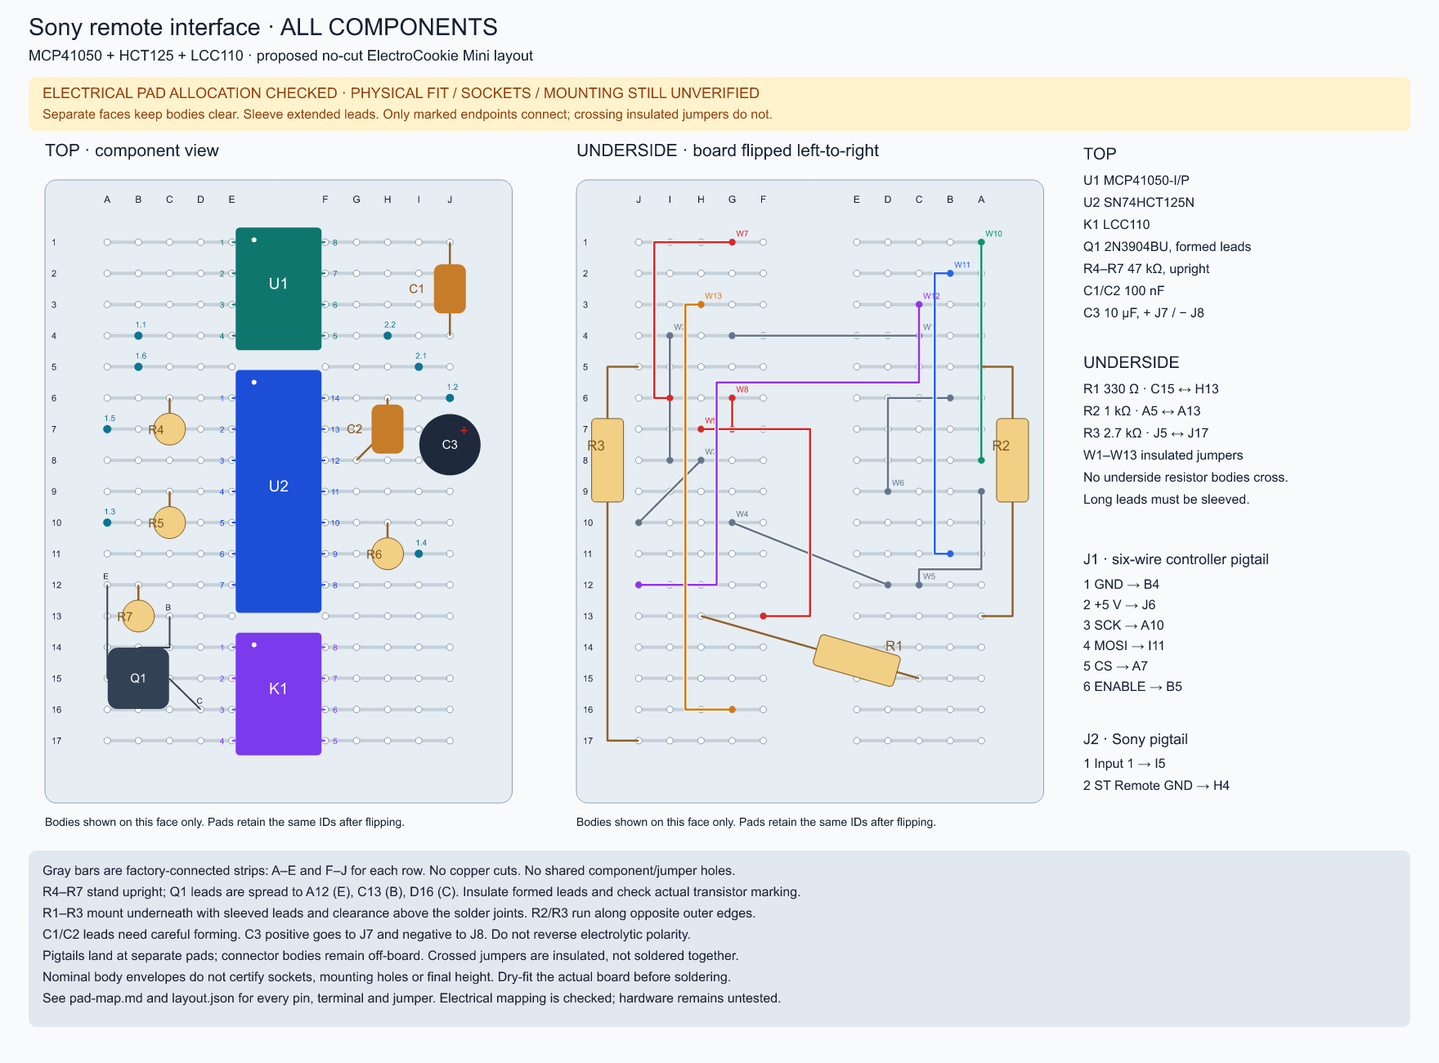
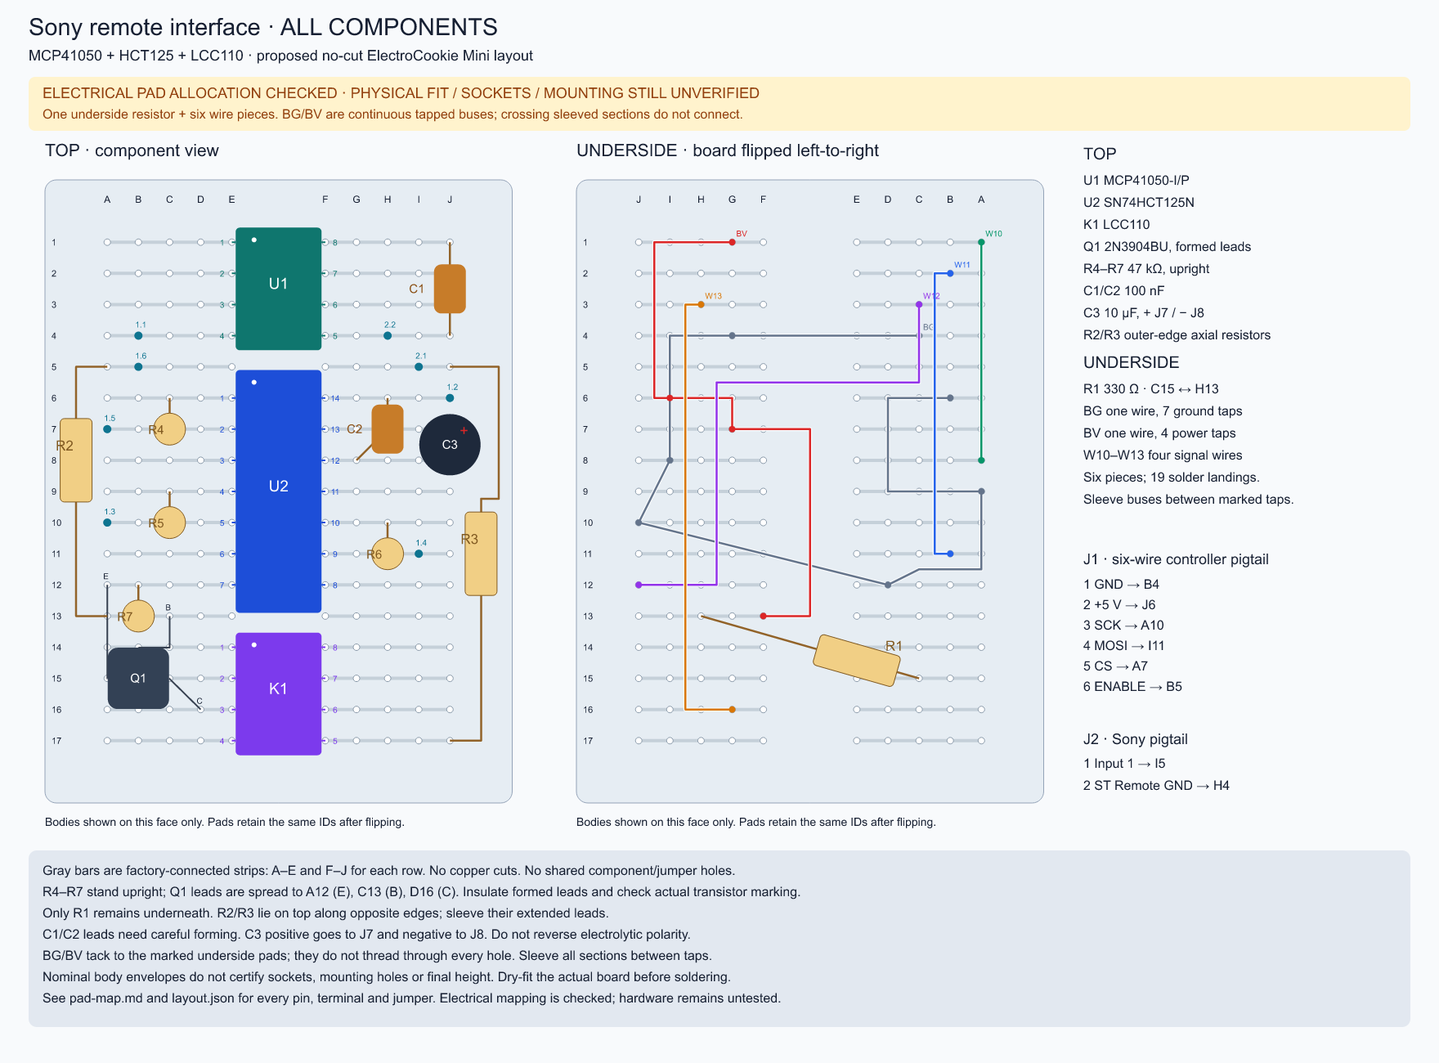
Simplify placement to one underside resistor and two tapped power buses

diff --git a/scripts/full-placement.py b/scripts/full-placement.py
@@ -1,9 +1,7 @@
 #!/usr/bin/env python3
 """Check and draw the complete proposed MCP41050 interface pad allocation."""
 import argparse
-import csv
 import html
-import io
 import json
 import math
 from pathlib import Path
@@ -74,8 +72,10 @@ def check(d):
     assert len({w['ref'] for w in d['jumpers']})==len(d['jumpers'])
     for w in d['jumpers']:
         for pad in w['pads']:occupy(pad,w['ref'])
-        assert all(math.dist(pad_xy(p),point)<1e-6 for p,point in zip(w['pads'],[w['route'][0],w['route'][-1]])),w['ref']
-        join(*w['pads'])
+        assert len(w['pads'])>=2, w['ref']
+        assert all(any(math.dist(pad_xy(p),point)<1e-6 for point in w['route']) for p in w['pads']), f'Missing tap on route: {w["ref"]}'
+        assert math.dist(pad_xy(w['pads'][0]),w['route'][0])<1e-6 and math.dist(pad_xy(w['pads'][-1]),w['route'][-1])<1e-6, w['ref']
+        for p in w['pads'][1:]:join(w['pads'][0],p)
     root_names={}; net_roots={}
     def label(pad,net):
         root=find(pad)
@@ -98,6 +98,11 @@ def check(d):
         for p in d['parts']:
             if p['side']=='bottom':
                 assert not any(segment_hits_box(a,b,p['body']) for a,b in zip(w['route'],w['route'][1:])),f'Jumper {w["ref"]} crosses body {p["ref"]}'
+    for p in d['parts']:
+        if p['ref'] not in ('R2','R3'):continue
+        for q in d['parts']:
+            if q['ref']==p['ref'] or q['side']!=p['side']:continue
+            assert not any(segment_hits_box(a,b,q['body']) for a,b in zip(p['lead_route'],p['lead_route'][1:])), f'Lead {p["ref"]} crosses body {q["ref"]}'
     print('Current layout: all device nets connected; no shorts, pad reuse or nominal same-side body overlap; jumpers avoid underside resistor bodies.')
 
 
@@ -123,7 +128,7 @@ def draw(d):
     s.text(35,74,'MCP41050 + HCT125 + LCC110 · proposed no-cut ElectroCookie Mini layout',18)
     s.rect(35,94,1690,66,'#fff3cd',radius=8)
     s.text(52,120,'ELECTRICAL PAD ALLOCATION CHECKED · PHYSICAL FIT / SOCKETS / MOUNTING STILL UNVERIFIED',18,'#92400e')
-    s.text(52,145,'Separate faces keep bodies clear. Sleeve extended leads. Only marked endpoints connect; crossing insulated jumpers do not.',16,'#92400e')
+    s.text(52,145,'One underside resistor + six wire pieces. BG/BV are continuous tapped buses; crossing sleeved sections do not connect.',16,'#92400e')
     for side,bx in [('top',55),('bottom',705)]:
         by=220
         def pos(pt):return (bx+(38.1-pt[0] if side=='bottom' else pt[0])*scale,by+pt[1]*scale)
@@ -189,9 +194,9 @@ def draw(d):
                 x,y=pad(c['pad']);s.circle(x,y,5,'#0e7490');s.text(x-4,y-10,c['ref'].replace('J',''),10,'#0e7490')
         s.text(bx,1010,'Bodies shown on this face only. Pads retain the same IDs after flipping.',14)
     x=1325;s.text(x,195,'TOP',20)
-    for i,t in enumerate(['U1   MCP41050-I/P','U2   SN74HCT125N','K1   LCC110','Q1   2N3904BU, formed leads','R4–R7   47 kΩ, upright','C1/C2   100 nF','C3   10 µF, + J7 / − J8']):s.text(x,226+i*27,t,16)
+    for i,t in enumerate(['U1   MCP41050-I/P','U2   SN74HCT125N','K1   LCC110','Q1   2N3904BU, formed leads','R4–R7   47 kΩ, upright','C1/C2   100 nF','C3   10 µF, + J7 / − J8','R2/R3   outer-edge axial resistors']):s.text(x,226+i*27,t,16)
     s.text(x,450,'UNDERSIDE',20)
-    for i,t in enumerate(['R1   330 Ω · C15 ↔ H13','R2   1 kΩ · A5 ↔ A13','R3   2.7 kΩ · J5 ↔ J17','W1–W13   insulated jumpers','No underside resistor bodies cross.','Long leads must be sleeved.']):s.text(x,481+i*27,t,16)
+    for i,t in enumerate(['R1   330 Ω · C15 ↔ H13','BG   one wire, 7 ground taps','BV   one wire, 4 power taps','W10–W13   four signal wires','Six pieces; 19 solder landings.','Sleeve buses between marked taps.']):s.text(x,481+i*27,t,16)
     s.text(x,690,'J1 · six-wire controller pigtail',18)
     for i,t in enumerate(['1 GND → B4','2 +5 V → J6','3 SCK → A10','4 MOSI → I11','5 CS → A7','6 ENABLE → B5']):s.text(x,720+i*25,t,16)
     s.text(x,910,'J2 · Sony pigtail',18)
@@ -200,9 +205,9 @@ def draw(d):
     notes=[
       'Gray bars are factory-connected strips: A–E and F–J for each row. No copper cuts. No shared component/jumper holes.',
       'R4–R7 stand upright; Q1 leads are spread to A12 (E), C13 (B), D16 (C). Insulate formed leads and check actual transistor marking.',
-      'R1–R3 mount underneath with sleeved leads and clearance above the solder joints. R2/R3 run along opposite outer edges.',
+      'Only R1 remains underneath. R2/R3 lie on top along opposite edges; sleeve their extended leads.',
       'C1/C2 leads need careful forming. C3 positive goes to J7 and negative to J8. Do not reverse electrolytic polarity.',
-      'Pigtails land at separate pads; connector bodies remain off-board. Crossed jumpers are insulated, not soldered together.',
+      'BG/BV tack to the marked underside pads; they do not thread through every hole. Sleeve all sections between taps.',
       'Nominal body envelopes do not certify sockets, mounting holes or final height. Dry-fit the actual board before soldering.',
       'See pad-map.md and layout.json for every pin, terminal and jumper. Electrical mapping is checked; hardware remains untested.',
     ]
@@ -215,20 +220,20 @@ def tables(d):
     for p in d['parts']:s.append(f'| {p["ref"]} | {p["part"]} / {p["side"]} | '+', '.join(f'{n} → {pad}' for n,pad in p['pins'].items())+' |')
     s+=['','## Distributed pigtails','', 'These are wire landing pads, not two in-line headers. Fit the existing removable connectors off-board. J1 numbering matches the current harness. Sony Input 2 stays insulated.','', '| Contact | Net | Pad |','| --- | --- | --- |']
     for c in d['contacts']:s.append(f'| {c["ref"]} | {c["net"]} | {c["pad"]} |')
-    s+=['','## Insulated underside jumpers','', 'Crossings are not junctions. Use insulated wire; route clear of resistor bodies and keep leads sleeved over unrelated pads. Coordinates are endpoint and routing references, not validated three-dimensional wire bends.','', '| Jumper | Net | From | To |','| --- | --- | --- | --- |']
-    for w in d['jumpers']:s.append(f'| {w["ref"]} | {w["net"]} | {w["pads"][0]} | {w["pads"][1]} |')
-    s+=['','## Assembly and physical conditions','',
+    s+=['','## Underside wire pieces and bus taps','', 'Crossings are not junctions. Use insulated wire; route clear of resistor bodies and keep leads sleeved over unrelated pads. Coordinates are endpoint and routing references, not validated three-dimensional wire bends.','', '| Wire | Net | Solder pads in order |','| --- | --- | --- |']
+    for w in d['jumpers']:s.append(f'| {w["ref"]} | {w["net"]} | '+ ' → '.join(w['pads'])+' |')
+    s+=['', 'BG and BV are each one continuous conductor with multiple solder taps, not chains of separate jumpers. Expose only the listed tap pads; sleeve all intervening sections. Untapped pads along the drawn route stay insulated. Tack the middle taps to the underside pads rather than threading a wire repeatedly through holes. This reduces wire pieces from 13 to 6 and wire solder landings from 26 to 19; it does not remove electrical nets. Four signal wires remain separate.', '', 'If making continuous tapped buses is awkward, separate insulated segments following the same net connections remain electrically equivalent; they restore some of the original cut/strip work.', '', '## Assembly and physical conditions','',
         '- Fit sockets and top components first, without solder. The IC-only image is now a subset of this candidate.',
         '- R4–R7 use upright mounting to span adjacent rows; the axial bodies do not lie flat between those pads.',
         '- Q1 has a formed-lead footprint, not the default three adjacent TO-92 holes. E=A12, B=C13, C=D16. Check the actual part orientation and preform without force at the body.',
-        '- R1–R3 go on the underside. R2 and R3 use outer-edge lead routes; R1 sits below the relay area. Sleeve extended leads, leave solder-joint clearance, and retain leads long enough until the dry-fit is complete.',
+        '- Only R1 remains on the underside. R2 moves onto the top left edge; R3 moves onto the top right edge and its body shifts down to avoid C3. Top R3 leads jog to x=37 mm past C3. Sleeve extended leads, retain solder-joint clearance and dry-fit before trimming.',
         '- Check supplied lead lengths before trimming. If a lead cannot follow its proposed route safely, revise the model or use an insulated extension; do not force the component.',
         '- C1/C2 leads are spread to the listed pads, rather than matching the stock 2.5 mm lead pitch. Avoid stress at the ceramic coating. C3 is polarized.',
         '- Body envelopes are provisional. The resistor envelope allows 6.8 × 2.6 mm, based on Yageo MFR-25 maximum body dimensions. Socket outlines, capacitor lead availability, mounting-hole locations and assembled height still require actual measurements.',
         '- This candidate uses both faces and distributed pigtails to preserve the no-cut board. It does not promise a single flat layer or accessible center mounting holes.',
         '- On the actual board, verify A–E / F–J strip continuity and orientation first. Do not solder until the dry-fit and receiver-disconnected electrical checks pass.',
         '', '## Verification scope','',
-        '`python3 scripts/full-placement.py --check` verifies the 14 component references, terminal connectivity against an independent device-pin contract, all resistor values, factory strips, no accidental net joins, no reused holes, pigtail assignments, nominal same-face body separation, and jumper avoidance of underside resistor bodies. It also verifies that the SVG/table match the model. This is not a timing, analog-current, power-sequencing or physical-fit simulation.',
+        '`python3 scripts/full-placement.py --check` verifies the 14 component references, terminal connectivity against an independent device-pin contract, all resistor values, factory strips, no accidental net joins, no reused holes, pigtail assignments, nominal same-face body separation, jumper avoidance of underside resistor bodies, and relocated top-resistor lead avoidance of other component bodies. It also verifies that the SVG/table match the model. This is not a timing, analog-current, power-sequencing or physical-fit simulation.',
         '', 'Regenerate with `python3 scripts/full-placement.py`. Tests deliberately introduce a rail short, an open jumper, a transistor-pin swap, pad reuse, a resistor-value error, a body overlap and a wire crossing a resistor body.',
         '', 'Source for resistor envelope: [Yageo MFR datasheet, dimensions](https://yageogroup.com/content/datasheet/asset/file/YAGEO-MFR_DATASHEET). Other envelopes are conservative drawing assumptions, not new manufacturer guarantees.','']
     return '\n'.join(s)

diff --git a/tests/test_full_placement.py b/tests/test_full_placement.py
@@ -61,6 +61,21 @@ class CurrentLayoutTests(unittest.TestCase):
                                     'route':[layout.pad_xy('G14'),layout.pad_xy('D4')]})
         with self.assertRaisesRegex(AssertionError,'Short'):self.check()
 
+    def test_missing_middle_ground_bus_tap(self):
+        bus = next(w for w in self.data['jumpers'] if w['ref'] == 'BG')
+        bus['pads'].remove('J10')
+        with self.assertRaisesRegex(AssertionError,'Open net'):self.check()
+
+    def test_bus_tap_must_be_explicit_on_route(self):
+        bus = next(w for w in self.data['jumpers'] if w['ref'] == 'BG')
+        tap = layout.pad_xy('I8')
+        bus['route'] = [xy for xy in bus['route'] if abs(xy[0]-tap[0])+abs(xy[1]-tap[1]) > 1e-6]
+        with self.assertRaisesRegex(AssertionError,'Missing tap'):self.check()
+
+    def test_top_resistor_lead_cannot_cross_capacitor(self):
+        self.part('R3')['lead_route'].insert(1,self.part('C3')['body'][:2])
+        with self.assertRaisesRegex(AssertionError,'Lead R3 crosses body'):self.check()
+
     def test_mirrored_image_retains_physical_pad_ids(self):
         source = layout.draw(self.data)
         self.assertIn('board flipped left-to-right',source)

diff --git a/hardware/sony-remote/pad-map.md b/hardware/sony-remote/pad-map.md
@@ -11,8 +11,8 @@
 | K1 | LCC110 / top | 1 → E14, 2 → E15, 3 → E16, 4 → E17, 8 → F14, 7 → F15, 6 → F16, 5 → F17 |
 | Q1 | 2N3904BU / top | E → A12, B → C13, C → D16 |
 | R1 | 330 ohm / bottom | 1 → C15, 2 → H13 |
-| R2 | 1 kohm / bottom | 1 → A5, 2 → A13 |
-| R3 | 2.7 kohm / bottom | 1 → J5, 2 → J17 |
+| R2 | 1 kohm / top | 1 → A5, 2 → A13 |
+| R3 | 2.7 kohm / top | 1 → J5, 2 → J17 |
 | R4 | 47 kohm / top | 1 → C7, 2 → C6 |
 | R5 | 47 kohm / top | 1 → C10, 2 → C9 |
 | R6 | 47 kohm / top | 1 → H11, 2 → H10 |
@@ -36,32 +36,29 @@ These are wire landing pads, not two in-line headers. Fit the existing removable
 | J2.1 | SONY_IN | I5 |
 | J2.2 | GND | H4 |
 
-## Insulated underside jumpers
+## Underside wire pieces and bus taps
 
 Crossings are not junctions. Use insulated wire; route clear of resistor bodies and keep leads sleeved over unrelated pads. Coordinates are endpoint and routing references, not validated three-dimensional wire bends.
 
-| Jumper | Net | From | To |
-| --- | --- | --- | --- |
-| W1 | GND | C4 | G4 |
-| W2 | GND | I4 | I8 |
-| W3 | GND | H8 | J10 |
-| W4 | GND | G10 | D12 |
-| W5 | GND | C12 | A9 |
-| W6 | GND | D9 | B6 |
-| W7 | +5V | G1 | I6 |
-| W8 | +5V | G6 | G7 |
-| W9 | +5V | H7 | F13 |
-| W10 | CS_OUT | A1 | A8 |
-| W11 | SCK_OUT | B2 | B11 |
-| W12 | MOSI_OUT | C3 | J12 |
-| W13 | PW | H3 | G16 |
+| Wire | Net | Solder pads in order |
+| --- | --- | --- |
+| BG | GND | C4 → G4 → I8 → J10 → D12 → A9 → B6 |
+| BV | +5V | G1 → I6 → G7 → F13 |
+| W10 | CS_OUT | A1 → A8 |
+| W11 | SCK_OUT | B2 → B11 |
+| W12 | MOSI_OUT | C3 → J12 |
+| W13 | PW | H3 → G16 |
+
+BG and BV are each one continuous conductor with multiple solder taps, not chains of separate jumpers. Expose only the listed tap pads; sleeve all intervening sections. Untapped pads along the drawn route stay insulated. Tack the middle taps to the underside pads rather than threading a wire repeatedly through holes. This reduces wire pieces from 13 to 6 and wire solder landings from 26 to 19; it does not remove electrical nets. Four signal wires remain separate.
+
+If making continuous tapped buses is awkward, separate insulated segments following the same net connections remain electrically equivalent; they restore some of the original cut/strip work.
 
 ## Assembly and physical conditions
 
 - Fit sockets and top components first, without solder. The IC-only image is now a subset of this candidate.
 - R4–R7 use upright mounting to span adjacent rows; the axial bodies do not lie flat between those pads.
 - Q1 has a formed-lead footprint, not the default three adjacent TO-92 holes. E=A12, B=C13, C=D16. Check the actual part orientation and preform without force at the body.
-- R1–R3 go on the underside. R2 and R3 use outer-edge lead routes; R1 sits below the relay area. Sleeve extended leads, leave solder-joint clearance, and retain leads long enough until the dry-fit is complete.
+- Only R1 remains on the underside. R2 moves onto the top left edge; R3 moves onto the top right edge and its body shifts down to avoid C3. Top R3 leads jog to x=37 mm past C3. Sleeve extended leads, retain solder-joint clearance and dry-fit before trimming.
 - Check supplied lead lengths before trimming. If a lead cannot follow its proposed route safely, revise the model or use an insulated extension; do not force the component.
 - C1/C2 leads are spread to the listed pads, rather than matching the stock 2.5 mm lead pitch. Avoid stress at the ceramic coating. C3 is polarized.
 - Body envelopes are provisional. The resistor envelope allows 6.8 × 2.6 mm, based on Yageo MFR-25 maximum body dimensions. Socket outlines, capacitor lead availability, mounting-hole locations and assembled height still require actual measurements.
@@ -70,7 +67,7 @@ Crossings are not junctions. Use insulated wire; route clear of resistor bodies 
 
 ## Verification scope
 
-`python3 scripts/full-placement.py --check` verifies the 14 component references, terminal connectivity against an independent device-pin contract, all resistor values, factory strips, no accidental net joins, no reused holes, pigtail assignments, nominal same-face body separation, and jumper avoidance of underside resistor bodies. It also verifies that the SVG/table match the model. This is not a timing, analog-current, power-sequencing or physical-fit simulation.
+`python3 scripts/full-placement.py --check` verifies the 14 component references, terminal connectivity against an independent device-pin contract, all resistor values, factory strips, no accidental net joins, no reused holes, pigtail assignments, nominal same-face body separation, jumper avoidance of underside resistor bodies, and relocated top-resistor lead avoidance of other component bodies. It also verifies that the SVG/table match the model. This is not a timing, analog-current, power-sequencing or physical-fit simulation.
 
 Regenerate with `python3 scripts/full-placement.py`. Tests deliberately introduce a rail short, an open jumper, a transistor-pin swap, pad reuse, a resistor-value error, a body overlap and a wire crossing a resistor body.
 

diff --git a/hardware/sony-remote/README.md b/hardware/sony-remote/README.md
@@ -11,7 +11,7 @@ Selected: **MCP41050-I/P + SN74HCT125N + LCC110 + 2N3904**, all through-hole, sh
 - [Complete pad / jumper table](pad-map.md) and [checked layout model](layout.json)
 - [Earlier IC-only fit study](placement.svg) — subset reference
 
-The current all-component candidate places all 14 component references, all eight pigtail landings and 13 insulated jumpers without copper cuts or shared holes. The checker verifies connectivity against the current circuit and nominal same-face body separation. Physical fit, actual sockets, mounting holes, lead forming and height remain unverified. This is a complete proposed electrical pad map, not a physically accepted assembly.
+The current all-component candidate places all 14 component references, all eight pigtail landings and six underside wire pieces (two tapped buses and four signal wires) without copper cuts or shared holes. The checker verifies connectivity against the current circuit and nominal same-face body separation. Physical fit, actual sockets, mounting holes, lead forming and height remain unverified. This is a complete proposed electrical pad map, not a physically accepted assembly.
 
 The former five-PhotoMOS JSON/SVG/BOM files are in [hardware/archive](../archive/sony-remote-photomos/README.md). Their generator and tests are retained for history and do not validate this circuit. Never build the current circuit using those drawings or connector allocations.
 
@@ -19,7 +19,9 @@ The former five-PhotoMOS JSON/SVG/BOM files are in [hardware/archive](../archive
 
 ![All-component top and underside placement](placement-full.png)
 
-Top: three DIP packages, Q1, four upright 47 kohm resistors and three capacitors. Underside: R1–R3 and insulated jumpers. The separate faces keep component bodies clear. R2 and R3 follow opposite outer edges; the drawing does not stack resistor bodies or route jumpers across them. Extended leads must be sleeved. The backside view is mirrored horizontally while retaining physical pad IDs.
+Top: three DIP packages, Q1, R2/R3 along the outer edges, four upright 47 kohm resistors and three capacitors. Underside: only R1, two continuous tapped buses and four signal wires. This reduces underside resistor bodies from three to one and wire pieces from 13 to six, using the same purchased components. Wire solder landings fall from 26 to 19. The backside view is mirrored horizontally while retaining physical pad IDs.
+
+BG is one seven-tap ground bus; BV is one four-tap 5 V bus. Sleeve the wire between marked solder taps; intermediate taps tack onto underside pads. This is fewer cut/strip pieces, not fewer logical nets. If continuous tapped wires prove awkward, equivalent separate segments are still an option. R1 stays underneath because moving it onto the crowded top adds routing and clearance compromises. Extended resistor leads must also be sleeved.
 
 The pigtail wires land on separate pads. Connector housings stay off-board; no in-line header footprint is implied. Q1 requires formed leads and the ceramic capacitors require lead spreading. Socket/mounting interference and actual lead lengths must be dry-fitted before soldering. See [the pad map](pad-map.md) for every endpoint and assembly conditions.
 

diff --git a/docs/assembly-and-test.md b/docs/assembly-and-test.md
@@ -62,7 +62,7 @@ Proceed only when voltage/current are compatible with the pot and power-transiti
 
 ## Permanent assembly and fit
 
-The proposed ElectroCookie Mini is 38.1 × 50.8 mm with 17 rows, each side connected in five-pad strips and a center gap. Three DIP packages use 4 + 7 + 4 pin rows before clearance. This arithmetic is not a finished fit check. Dry-fit sockets, transistor, passives, connectors, mounting screws and insulation on the actual board. Check underside access, cable bend radius and enclosure clearance before soldering. The [all-component placement](../hardware/sony-remote/placement-full.svg) and [pad map](../hardware/sony-remote/pad-map.md) now specify a complete proposed allocation: ICs, Q1, all passives, distributed pigtails and insulated underside jumpers. The checker confirms logical connectivity and nominal body separation. Three resistors mount on the underside and four stand upright on top. This remains a physical dry-fit task: sockets, mounting-hole keepouts, lead availability, forming and overall height are not yet measured. No physically verified permanent map exists yet.
+The proposed ElectroCookie Mini is 38.1 × 50.8 mm with 17 rows, each side connected in five-pad strips and a center gap. Three DIP packages use 4 + 7 + 4 pin rows before clearance. This arithmetic is not a finished fit check. Dry-fit sockets, transistor, passives, connectors, mounting screws and insulation on the actual board. Check underside access, cable bend radius and enclosure clearance before soldering. The [all-component placement](../hardware/sony-remote/placement-full.svg) and [pad map](../hardware/sony-remote/pad-map.md) now specify a complete proposed allocation: ICs, Q1, all passives, distributed pigtails and insulated underside jumpers. The checker confirms logical connectivity and nominal body separation. Only R1 mounts underneath; R2/R3 sit on the top outer edges, and four 47 kohm resistors stand upright. The underside wiring is two continuous tapped buses plus four signal wires. See the pad map for exposed tap locations and sleeve all intervening wire sections. This remains a physical dry-fit task: sockets, mounting-hole keepouts, lead availability, forming and overall height are not yet measured. No physically verified permanent map exists yet.
 
 Keep all placement claims provisional until that dry-fit. Check the proposed top and mirrored underside views against the actual board, confirm every labeled net and verify the connected strips. Revise the model and regenerate the image if any physical change is needed. Use insulated jumpers, strain relief and mechanical support independent of the cable. Repeat acceptance after soldering. Never copy the archived isolated-ground layout into this shared-ground circuit.
 

diff --git a/docs/tasks.md b/docs/tasks.md
@@ -46,7 +46,8 @@ Initial functional diagnostic complete: USB/I2C, rotation, button, RGB, and repe
 - [ ] Receive and inspect parts; verify actual packages, polarity and pin orientation.
 - [x] Add a provisional current-design DIP placement image with pin/net reference; not a complete routed layout.
 - [x] Place every component and pigtail in a complete proposed pad map; document top / underside views and check all nets, holes and nominal body separation.
-- [ ] Dry-fit actual components, sockets, mounting holes and lead forming against the proposed map; verify insulation, wire clearance and overall height.
+- [x] Simplify placement: move R2/R3 to the top and replace nine separate rail links with two tapped buses; one underside resistor and six wire pieces remain.
+- [ ] Dry-fit actual components, sockets, mounting holes, formed leads and bus construction; verify insulation, clearances and overall height.
 - [ ] Assemble the receiver-disconnected solderless prototype; verify rails and relay LED current.
 - [ ] Implement a separate calibration/driver diagnostic with relay-off defaults; user performs flashing.
 - [ ] Measure and record the five calibrated output resistances.
